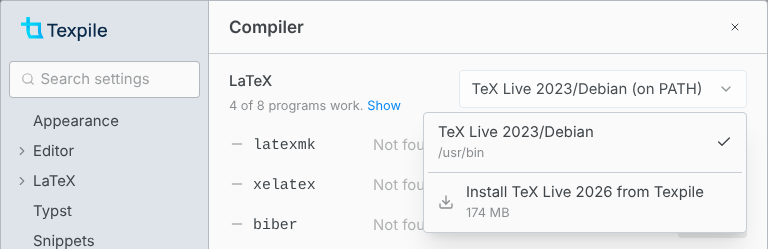
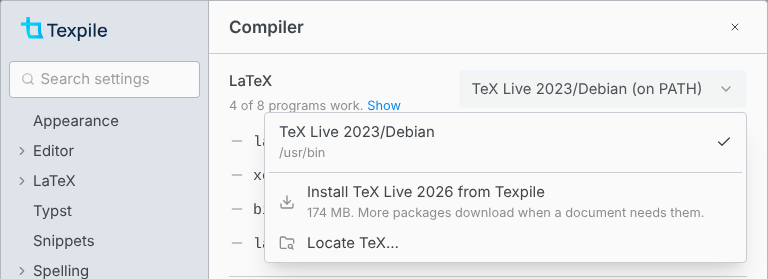
feat(editor): locate an install from the compiler pickers

diff --git a/apps/texpile-editor/src/lib/modals/window/toolchain/LanguageRow.svelte b/apps/texpile-editor/src/lib/modals/window/toolchain/LanguageRow.svelte
@@ -1,6 +1,7 @@
 <script lang="ts">
 	import { Download } from '@lucide/svelte';
 	import { tip } from '$lib/components/tooltip.svelte';
+	import { toolDirs } from '../toolDirs.svelte';
 	import { distros } from '../distros.svelte';
 	import { toolchainProbe } from '../toolchainProbe.svelte';
 	import PrefsRow from '../rows/PrefsRow.svelte';
@@ -12,6 +13,7 @@
 	import ProgramWorkingRow from './ProgramWorkingRow.svelte';
 	import type { LanguageInstall } from './languageInstalls';
 	import { languageNote, splitPrograms, type ProgramRow } from './toolchainRows';
+	import { m } from '$lib/paraglide/messages';
 
 	const props: { id: PrefsRowId; install: LanguageInstall; rows: ProgramRow[] } = $props();
 	const install = $derived(props.install);
@@ -28,18 +30,37 @@
 			<LanguageNote {note} docs={install.docs} {open} onToggle={() => (open = !open)} />
 		{/snippet}
 		{#if picks}
-			<DistroPicker family={install.family} offer={install.offer} busy={install.busy} onInstall={() => install.install()} />
-		{:else if install.offer}
-			<button
-				type="button"
-				class="btn preset-tonal text-sm"
-				use:tip={install.offer.note}
-				onclick={() => install.install()}
-				disabled={install.busy}
-			>
-				<Download class="size-4" />
-				<span class="cap-center">{install.offer.label}</span>
-			</button>
+			<DistroPicker
+				family={install.family}
+				offer={install.offer}
+				locate={install.locate}
+				busy={install.busy}
+				onInstall={() => install.install()}
+			/>
+		{:else}
+			<!-- nothing found: Texpile's own install, or one it does not know where to look for -->
+			<div class="flex gap-2">
+				<button
+					type="button"
+					class="btn preset-tonal text-sm"
+					onclick={() => void toolDirs.locate(install.locate.program)}
+					disabled={toolDirs.busy || install.busy}
+				>
+					{m.prefs_toolchain_locate()}
+				</button>
+				{#if install.offer}
+					<button
+						type="button"
+						class="btn preset-filled-primary-500 text-sm"
+						use:tip={install.offer.note ?? install.offer.label}
+						onclick={() => install.install()}
+						disabled={install.busy}
+					>
+						<Download class="size-4" />
+						<span class="cap-center">{install.installLabel}</span>
+					</button>
+				{/if}
+			</div>
 		{/if}
 	</PrefsRow>
 	<div class="flex items-end gap-3">

diff --git a/apps/texpile-editor/src/lib/modals/window/toolchain/languageInstalls.ts b/apps/texpile-editor/src/lib/modals/window/toolchain/languageInstalls.ts
@@ -17,10 +17,14 @@ export type LanguageInstall = {
 	readonly step: InstallStep | null;
 	readonly busy: boolean;
 	readonly progress: Component;
+	/** the install button's words where no install was found, beside Locate */
+	readonly installLabel: string;
 	readonly removeLabel: string;
 	readonly cancelLabel: string;
 	/** the install guide's page for this language */
 	readonly docs: string;
+	/** Locate's menu item, and the program it asks for: one in the install's own folder */
+	readonly locate: { label: string; program: string };
 	refresh(): void;
 	install(): void;
 	cancel(): void;
@@ -47,6 +51,9 @@ export const texLiveInstall: LanguageInstall = {
 		return texLiveInstaller.busy;
 	},
 	progress: TexLiveInstallProgress,
+	get installLabel() {
+		return m.texlive_install();
+	},
 	get removeLabel() {
 		return m.texlive_remove();
 	},
@@ -54,6 +61,9 @@ export const texLiveInstall: LanguageInstall = {
 		return m.texlive_install_cancel();
 	},
 	docs: 'https://texpile.com/docs/installation/latex',
+	get locate() {
+		return { label: m.prefs_toolchain_locate_tex(), program: 'lualatex' };
+	},
 	refresh: () => void texLiveInstaller.refresh(),
 	install: () => void texLiveInstaller.install().then((r) => (r?.ok ? distros.useManaged('latex') : undefined)),
 	cancel: () => texLiveInstaller.cancel(),
@@ -78,6 +88,9 @@ export const tinymistInstall: LanguageInstall = {
 		return tinymistInstaller.busy;
 	},
 	progress: TinymistInstallProgress,
+	get installLabel() {
+		return m.tinymist_install();
+	},
 	get removeLabel() {
 		return m.tinymist_remove();
 	},
@@ -85,6 +98,9 @@ export const tinymistInstall: LanguageInstall = {
 		return m.tinymist_install_cancel();
 	},
 	docs: 'https://texpile.com/docs/installation/typst',
+	get locate() {
+		return { label: m.prefs_toolchain_locate_tinymist(), program: 'tinymist' };
+	},
 	refresh: () => void tinymistInstaller.refresh(),
 	install: () => void tinymistInstaller.install().then((r) => (r?.ok ? distros.useManaged('typst') : undefined)),
 	cancel: () => tinymistInstaller.cancel(),

diff --git a/apps/texpile-editor/src/lib/modals/window/toolchain/toolchainRows.ts b/apps/texpile-editor/src/lib/modals/window/toolchain/toolchainRows.ts
@@ -1,5 +1,5 @@
 // what Preferences › Compiler lists for a language: the picker's installs, its status line and the programs that need a line of their own
-import { Download } from '@lucide/svelte';
+import { Download, FolderSearch } from '@lucide/svelte';
 import type { DropdownGroup } from '$lib/menus/MenuDropdown.svelte';
 // eslint-disable-next-line no-restricted-imports -- a type, erased from the bundle
 import type { ToolInfo } from '$lib/workspace/toolchainCatalog';
@@ -7,6 +7,7 @@ import { installedYear } from './install/texLiveInstallText';
 import { m } from '$lib/paraglide/messages';
 
 export const INSTALL_VALUE = 'texpile-install';
+export const LOCATE_VALUE = 'locate';
 
 export type InstallOffer = { label: string; note?: string };
 
@@ -24,8 +25,8 @@ export function distroLabel(d: ToolDistro | null): string {
 	return d.name;
 }
 
-/** every install, the one in use checked, then Texpile's own when it has one to offer */
-export function distroGroups(list: ToolDistro[], inUse: ToolDistro | null, offer: InstallOffer | null): DropdownGroup[] {
+/** every install, the one in use checked, then Texpile's own when it has one to offer, then one Texpile does not find */
+export function distroGroups(list: ToolDistro[], inUse: ToolDistro | null, offer: InstallOffer | null, locate: string): DropdownGroup[] {
 	const groups: DropdownGroup[] = [];
 	const options = list.map((d) => ({
 		value: d.dir,
@@ -34,7 +35,9 @@ export function distroGroups(list: ToolDistro[], inUse: ToolDistro | null, offer
 		checked: d.dir === inUse?.dir
 	}));
 	if (options.length) groups.push({ options });
-	if (offer) groups.push({ options: [{ value: INSTALL_VALUE, label: offer.label, note: offer.note, icon: Download, checked: false }] });
+	const find = { value: LOCATE_VALUE, label: locate, icon: FolderSearch, checked: false };
+	const install = offer && { value: INSTALL_VALUE, label: offer.label, note: offer.note, icon: Download, checked: false };
+	groups.push({ options: install ? [install, find] : [find] });
 	return groups;
 }
 

diff --git a/apps/texpile-editor/src/lib/modals/window/toolchain/DistroPicker.svelte b/apps/texpile-editor/src/lib/modals/window/toolchain/DistroPicker.svelte
@@ -3,19 +3,26 @@
 	import MenuDropdown from '$lib/menus/MenuDropdown.svelte';
 	import { distros } from '../distros.svelte';
 	import { toolDirs } from '../toolDirs.svelte';
-	import { distroGroups, distroInUse, distroLabel, folderFor, INSTALL_VALUE, type InstallOffer } from './toolchainRows';
+	import { distroGroups, distroInUse, distroLabel, folderFor, INSTALL_VALUE, LOCATE_VALUE, type InstallOffer } from './toolchainRows';
 
-	const props: { family: ToolDistro['family']; offer: InstallOffer | null; busy: boolean; onInstall: () => void } = $props();
+	const props: {
+		family: ToolDistro['family'];
+		offer: InstallOffer | null;
+		locate: { label: string; program: string };
+		busy: boolean;
+		onInstall: () => void;
+	} = $props();
 	const list = $derived(distros.list(props.family));
 	const inUse = $derived(distroInUse(list, distros.active(props.family)));
 
 	function pick(value: string): void {
 		if (value === INSTALL_VALUE) props.onInstall();
+		else if (value === LOCATE_VALUE) void toolDirs.locate(props.locate.program);
 		else void distros.choose(props.family, folderFor(list, value));
 	}
 </script>
 
-<MenuDropdown groups={distroGroups(list, inUse, props.offer)} placement="bottom-end" onSelect={pick}>
+<MenuDropdown groups={distroGroups(list, inUse, props.offer, props.locate.label)} placement="bottom-end" onSelect={pick}>
 	{#snippet trigger(attrs)}
 		<button
 			{...attrs}

diff --git a/apps/texpile-editor/tests/unit/lib/modals/window/toolchain/toolchainRows.test.ts b/apps/texpile-editor/tests/unit/lib/modals/window/toolchain/toolchainRows.test.ts
@@ -4,6 +4,7 @@ import {
 	folderFor,
 	INSTALL_VALUE,
 	languageNote,
+	LOCATE_VALUE,
 	splitPrograms,
 	texLiveOffer
 } from '../../../../../../src/lib/modals/window/toolchain/toolchainRows';
@@ -24,12 +25,12 @@ const MANAGED = distro('TeX Live 2026', '/data/texlive/bin/x86_64-linux', { mana
 const STATUS: ManagedTexLiveStatus = { pinned: '2026-r81008', year: 2026, megabytes: 174, installed: null, step: null };
 
 it('lists every install with the one in use checked, then the install from Texpile', () => {
-	const groups = distroGroups([PATH_TL, MANAGED], MANAGED, { label: 'Install TeX Live 2026 from Texpile' });
+	const groups = distroGroups([PATH_TL, MANAGED], MANAGED, { label: 'Install TeX Live 2026 from Texpile' }, 'Locate TeX…');
 	expect(groups[0].options.map((o) => [o.label, o.checked])).toEqual([
 		['TeX Live 2025', false],
 		['TeX Live 2026', true]
 	]);
-	expect(groups[1].options.map((o) => o.value)).toEqual([INSTALL_VALUE]);
+	expect(groups[1].options.map((o) => o.value)).toEqual([INSTALL_VALUE, LOCATE_VALUE]);
 	// the copy PATH reaches needs no folder entry, so picking it clears the list
 	expect(folderFor([PATH_TL, MANAGED], PATH_TL.dir)).toBeNull();
 	expect(folderFor([PATH_TL, MANAGED], MANAGED.dir)).toBe(MANAGED.dir);

diff --git a/apps/texpile-editor/src/lib/modals/window/toolchain/ProgramProblemRow.svelte b/apps/texpile-editor/src/lib/modals/window/toolchain/ProgramProblemRow.svelte
@@ -2,7 +2,6 @@
 	import { Minus, TriangleAlert } from '@lucide/svelte';
 	import { tip } from '$lib/components/tooltip.svelte';
 	import { toolchainProbe } from '../toolchainProbe.svelte';
-	import { toolDirs } from '../toolDirs.svelte';
 	import { problemText, type ProgramRow } from './toolchainRows';
 	import { m } from '$lib/paraglide/messages';
 
@@ -33,10 +32,6 @@
 			disabled={toolchainProbe.probing}
 		>
 			{m.prefs_toolchain_recheck()}
-		</button>
-	{:else}
-		<button type="button" class="btn btn-sm preset-tonal shrink-0" onclick={() => void toolDirs.locate(tool.name)} disabled={toolDirs.busy}>
-			{m.prefs_toolchain_locate()}
 		</button>
 	{/if}
 </div>

diff --git a/apps/texpile-editor/src/lib/modals/window/missingProgram/MissingProgramDialog.svelte b/apps/texpile-editor/src/lib/modals/window/missingProgram/MissingProgramDialog.svelte
@@ -75,6 +75,10 @@
 			const install: DialogButton = {
 				label: family === 'typst' ? m.tinymist_install() : m.texlive_install(),
 				role: 'primary',
+				tip:
+					offer === texLiveInstaller && texLiveInstaller.status?.megabytes
+						? m.prefs_texlive_install_size({ size: String(texLiveInstaller.status.megabytes) })
+						: undefined,
 				disabled: toolchainProbe.probing || offer.busy,
 				onclick: () => void offer.install()
 			};

diff --git a/docs/build-and-preview/toolchain.md b/docs/build-and-preview/toolchain.md
@@ -30,15 +30,17 @@ Texpile reads your PATH once, when it starts: restart it after you change PATH. 
 
 ## Pick an install and add folders
 
-The **LaTeX** picker lists every TeX Live and MiKTeX Texpile finds. The one in use has a check mark. Pick another to put its folder first. **(on PATH)** marks the one your PATH reaches.
+The **LaTeX** picker lists every TeX Live and MiKTeX Texpile finds. The one in use has a check mark. Pick another to put its folder first. **(on PATH)** marks the one your PATH reaches. For a TeX Texpile does not find, choose **Locate TeX…** at the end of the menu and pick lualatex in it. The **Typst** picker has **Locate tinymist…** in the same place.
 
-Texpile searches **Other folders** before PATH, for every program it runs, including your compile command and git. **Add Folder** adds one, and **Locate** on a **Not found** line adds that program's folder. Each folder shows what Texpile found in it.
+Add a program missing from your TeX with that distribution's package manager, such as tlmgr or MiKTeX Console.
+
+Texpile searches **Other folders** before PATH, for every program it runs, including your compile command and git. **Add Folder** adds one. Each folder shows what Texpile found in it.
 
 ## Install TeX Live
 
-Open the **LaTeX** picker and click **Install TeX Live 2026 from Texpile**. With no TeX found, the row has an **Install TeX Live 2026 from Texpile** button in place of the picker. The **Set Up LaTeX** dialog offers it too. Texpile downloads TeX Live 2026 from dl.texpile.com and checks it against a checksum. The download is 174 MB on Linux, 230 MB on macOS and 287 MB on Windows. It holds lualatex, pdflatex, xelatex, latexmk, biber and the packages most papers load.
+Open the **LaTeX** picker and click **Install TeX Live 2026 from Texpile**. With no TeX found, the row has **Locate** and **Install TeX Live** in place of the picker. The **Set Up LaTeX** dialog offers it too. Texpile downloads TeX Live 2026 from dl.texpile.com and checks it against a checksum. The download is 174 MB on Linux, 230 MB on macOS and 287 MB on Windows. It holds lualatex, pdflatex, xelatex, latexmk, biber and the packages most papers load.
 
-![The LaTeX picker open with TeX Live 2023/Debian checked and Install TeX Live 2026 from Texpile, 174 MB](../../landing/src/lib/assets/showcase/docs/app/toolchain-tex-picker.png)
+![The LaTeX picker open with TeX Live 2023/Debian checked, Install TeX Live 2026 from Texpile with its size, and Locate TeX…](../../landing/src/lib/assets/showcase/docs/app/toolchain-tex-picker.png)
 
 After the install, the picker uses **TeX Live 2026 (installed by Texpile)**. Pick another install to switch back. To delete it, click **Remove** next to "Texpile installed TeX Live 2026."
 
@@ -46,7 +48,7 @@ When a document loads a package this TeX Live lacks, the live preview and **Comp
 
 ## Install tinymist for Typst
 
-Open the **Typst** picker and click the option that starts with **Install tinymist**. With no tinymist found, the row has an install button in place of the picker. The **Set Up Typst** dialog and the "tinymist is not installed." bar above a `.typ` file offer it too.
+Open the **Typst** picker and click the option that starts with **Install tinymist**. With no tinymist found, the row has **Locate** and **Install tinymist** in place of the picker. The **Set Up Typst** dialog and the "tinymist is not installed." bar above a `.typ` file offer it too.
 
 After the install, the picker uses the entry that ends in **(installed by Texpile)**. Pick another install to switch back. **Remove** deletes the tinymist Texpile installed.
 

diff --git a/docs/troubleshooting/README.md b/docs/troubleshooting/README.md
@@ -14,12 +14,12 @@ Find the message you see. [LaTeX](latex.md), [Typst](typst.md), [Git](git.md) an
 
 ## Programs
 
-| You see                                                 | Fix                                                                               |
-| ------------------------------------------------------- | --------------------------------------------------------------------------------- |
-| A program shows **Not found** in Preferences › Compiler | Click **Locate** and pick the program's file, or add its folder in Other folders. |
-| A program shows **Does not run.**                       | Texpile found the program and it fails to start. Reinstall it.                    |
-| "No main file is set."                                  | Click **Set Main File**.                                                          |
-| Git features are missing                                | [Install git](../installation/git.md).                                            |
+| You see                                                 | Fix                                                                                   |
+| ------------------------------------------------------- | ------------------------------------------------------------------------------------- |
+| A program shows **Not found** in Preferences › Compiler | Add it with your TeX distribution's package manager, such as tlmgr or MiKTeX Console. |
+| A program shows **Does not run.**                       | Texpile found the program and it fails to start. Reinstall it.                        |
+| "No main file is set."                                  | Click **Set Main File**.                                                              |
+| Git features are missing                                | [Install git](../installation/git.md).                                                |
 
 ## Editing
 

diff --git a/docs/troubleshooting/latex.md b/docs/troubleshooting/latex.md
@@ -23,7 +23,7 @@ order: 1
 
 | You see                                   | Fix                                                                                                             |
 | ----------------------------------------- | --------------------------------------------------------------------------------------------------------------- |
-| "lualatex is not installed."              | Click **Compiler Settings**. Install TeX Live from the **LaTeX** picker, or click **Locate** beside lualatex.   |
+| "lualatex is not installed."              | Click **Compiler Settings**. Click **Install TeX Live**, or **Locate** for a TeX Texpile does not find.         |
 | "Live mode needs LaTeX 2021-06 or newer." | Update TeX Live, MacTeX or MiKTeX.                                                                              |
 | **preview error**                         | Open Problems to see the error. The live preview runs lualatex, so a document that needs pdflatex uses Compile. |
 | Live mode cannot be turned on             | You are hosting a shared session. End it first.                                                                 |
